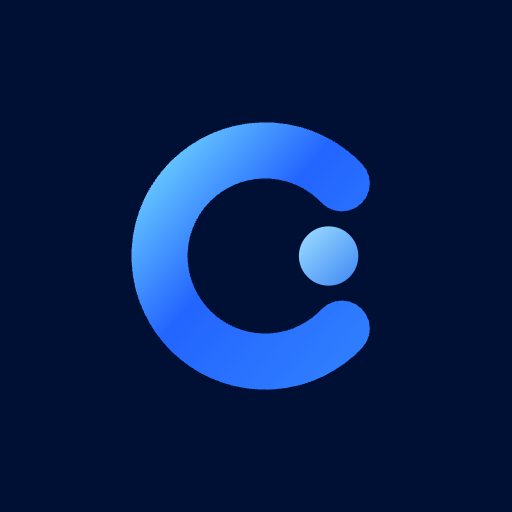
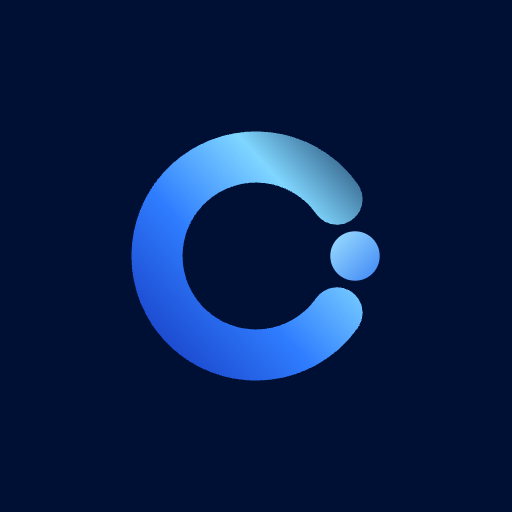
Beeldmerk verfijnd: zachtere fade, punt op de middellijn
De punt lag 12,76 eenheden naast de middellijn van de boog. Geometrie
herrekend: middelpunt (50,50), straal 30, lijndikte 15, opening plus en min 35
graden, punt op (80,50) zodat hij in het verlengde van de lijn valt.

Fade van 8 naar 40 procent dekking, zodat de staart ook op faviconformaat heel
blijft. Favicon en app-icoon opnieuw gegenereerd.

Claude-Session: https://claude.ai/code/session_015bR6SLJzHVB3Zpj9XDW4No

Changed region(s): [[0.25, 0.2188, 0.75, 0.7812]]

diff --git a/src/components/Logo.tsx b/src/components/Logo.tsx
@@ -1,8 +1,10 @@
 import Link from "next/link";
 
 /**
- * Beeldmerk: een monogram-C met een druppelpunt in de opening. Het verloop
- * loopt van cyaan linksboven naar diepblauw rechtsonder.
+ * Beeldmerk: een monogram-C waarvan de staart uitvloeit, met een punt in de
+ * opening. Geometrie: middelpunt (50,50), straal 30, lijndikte 15, opening
+ * symmetrisch op ±35 graden. De punt ligt op de middellijn van de boog, op
+ * (80,50), zodat hij precies in het verlengde van de lijn valt.
  */
 export function LogoMark({
   className = "",
@@ -22,10 +24,11 @@ export function LogoMark({
       role="presentation"
     >
       <defs>
-        <linearGradient id={`${id}-grad`} x1="0" y1="0" x2="1" y2="1">
-          <stop offset="0%" stopColor="#6ccfff" />
-          <stop offset="45%" stopColor="#2365ff" />
-          <stop offset="100%" stopColor="#102e97" />
+        <linearGradient id={`${id}-grad`} x1="0" y1="1" x2="1" y2="0">
+          <stop offset="0%" stopColor="#102e97" />
+          <stop offset="40%" stopColor="#2365ff" />
+          <stop offset="78%" stopColor="#6ccfff" />
+          <stop offset="100%" stopColor="#6ccfff" stopOpacity="0.4" />
         </linearGradient>
         <linearGradient id={`${id}-dot`} x1="0" y1="0" x2="1" y2="1">
           <stop offset="0%" stopColor="#7ad4ff" />
@@ -33,13 +36,13 @@ export function LogoMark({
         </linearGradient>
       </defs>
       <path
-        d="M76 28 a32 32 0 1 0 0 44"
+        d="M74.57 32.79a30 30 0 1 0 0 34.42"
         fill="none"
         stroke={`url(#${id}-grad)`}
-        strokeWidth="16"
+        strokeWidth="15"
         strokeLinecap="round"
       />
-      <circle cx="72" cy="50" r="8.5" fill={`url(#${id}-dot)`} />
+      <circle cx="80" cy="50" r="7.5" fill={`url(#${id}-dot)`} />
     </svg>
   );
 }

diff --git a/README.md b/README.md
@@ -128,8 +128,11 @@ derde partij aan te pas. Vraag daarvoor het originele bestand op bij de klant.
 
 ## Logo en favicon
 
-Het beeldmerk is een monogram-C met een druppelpunt in de opening, met een verloop
-van cyaan (#6ccfff) via het merkblauw (#2365ff) naar diepblauw (#102e97). Het woordmerk zet "Clean" groot
+Het beeldmerk is een monogram-C waarvan de staart uitvloeit, met een punt in de
+opening. Geometrie: middelpunt (50,50), straal 30, lijndikte 15, opening ±35
+graden, punt op de middellijn van de boog op (80,50) met straal 7.5. Het verloop
+loopt van diepblauw (#102e97) via het merkblauw (#2365ff) naar cyaan (#6ccfff)
+dat uitvloeit tot 40% dekking. Het woordmerk zet "Clean" groot
 met "watersystems" in het merkblauw eronder. De uitlijning is uitgemeten op de
 gerenderde pixels in plaats van geforceerd met `textLength`: bij font-size 41 met
 letter-spacing -1.4 loopt de inkt van "Clean" van x 1.43 tot 98.85, en met
